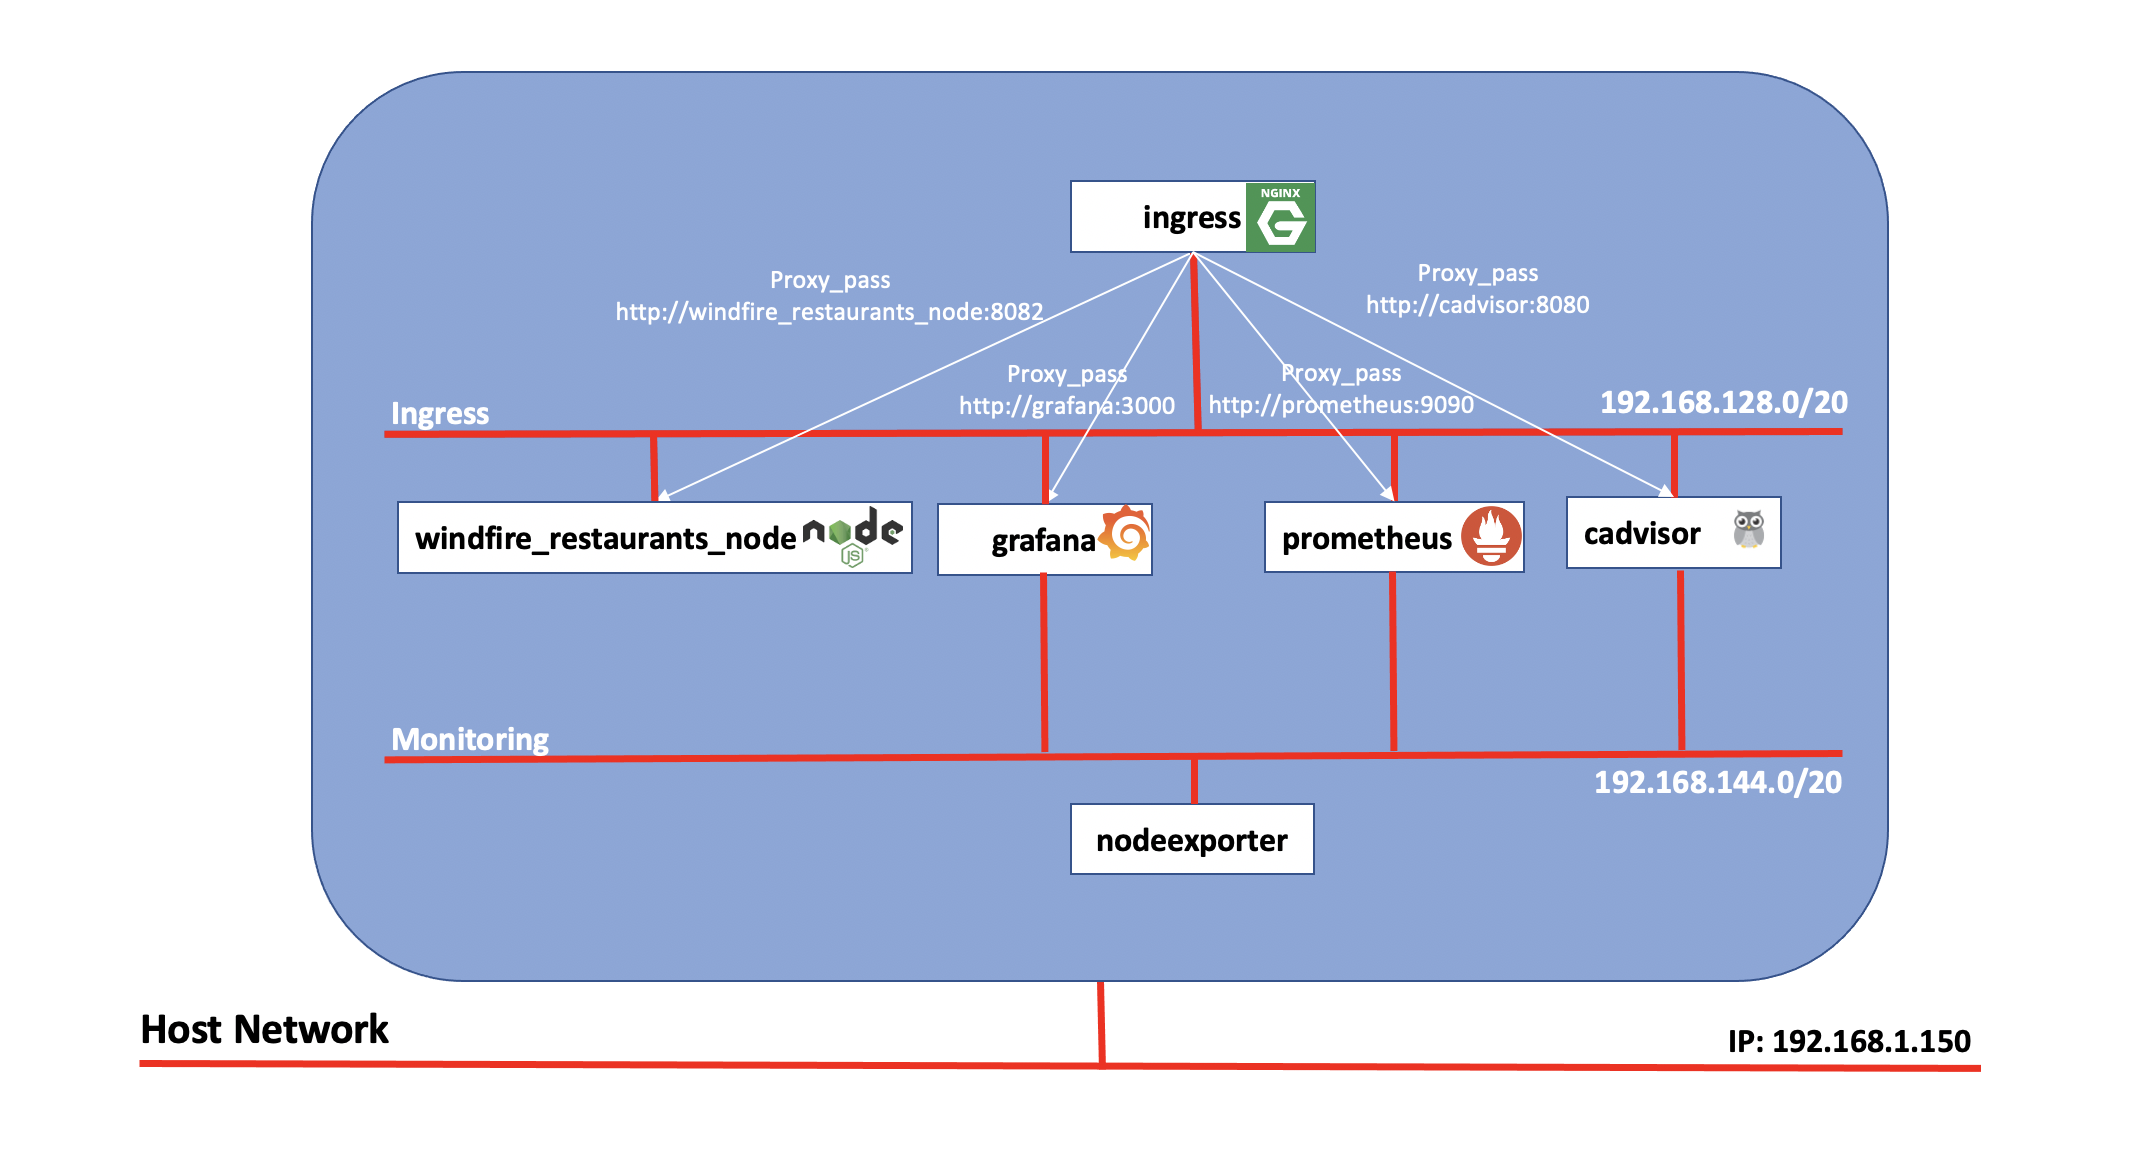
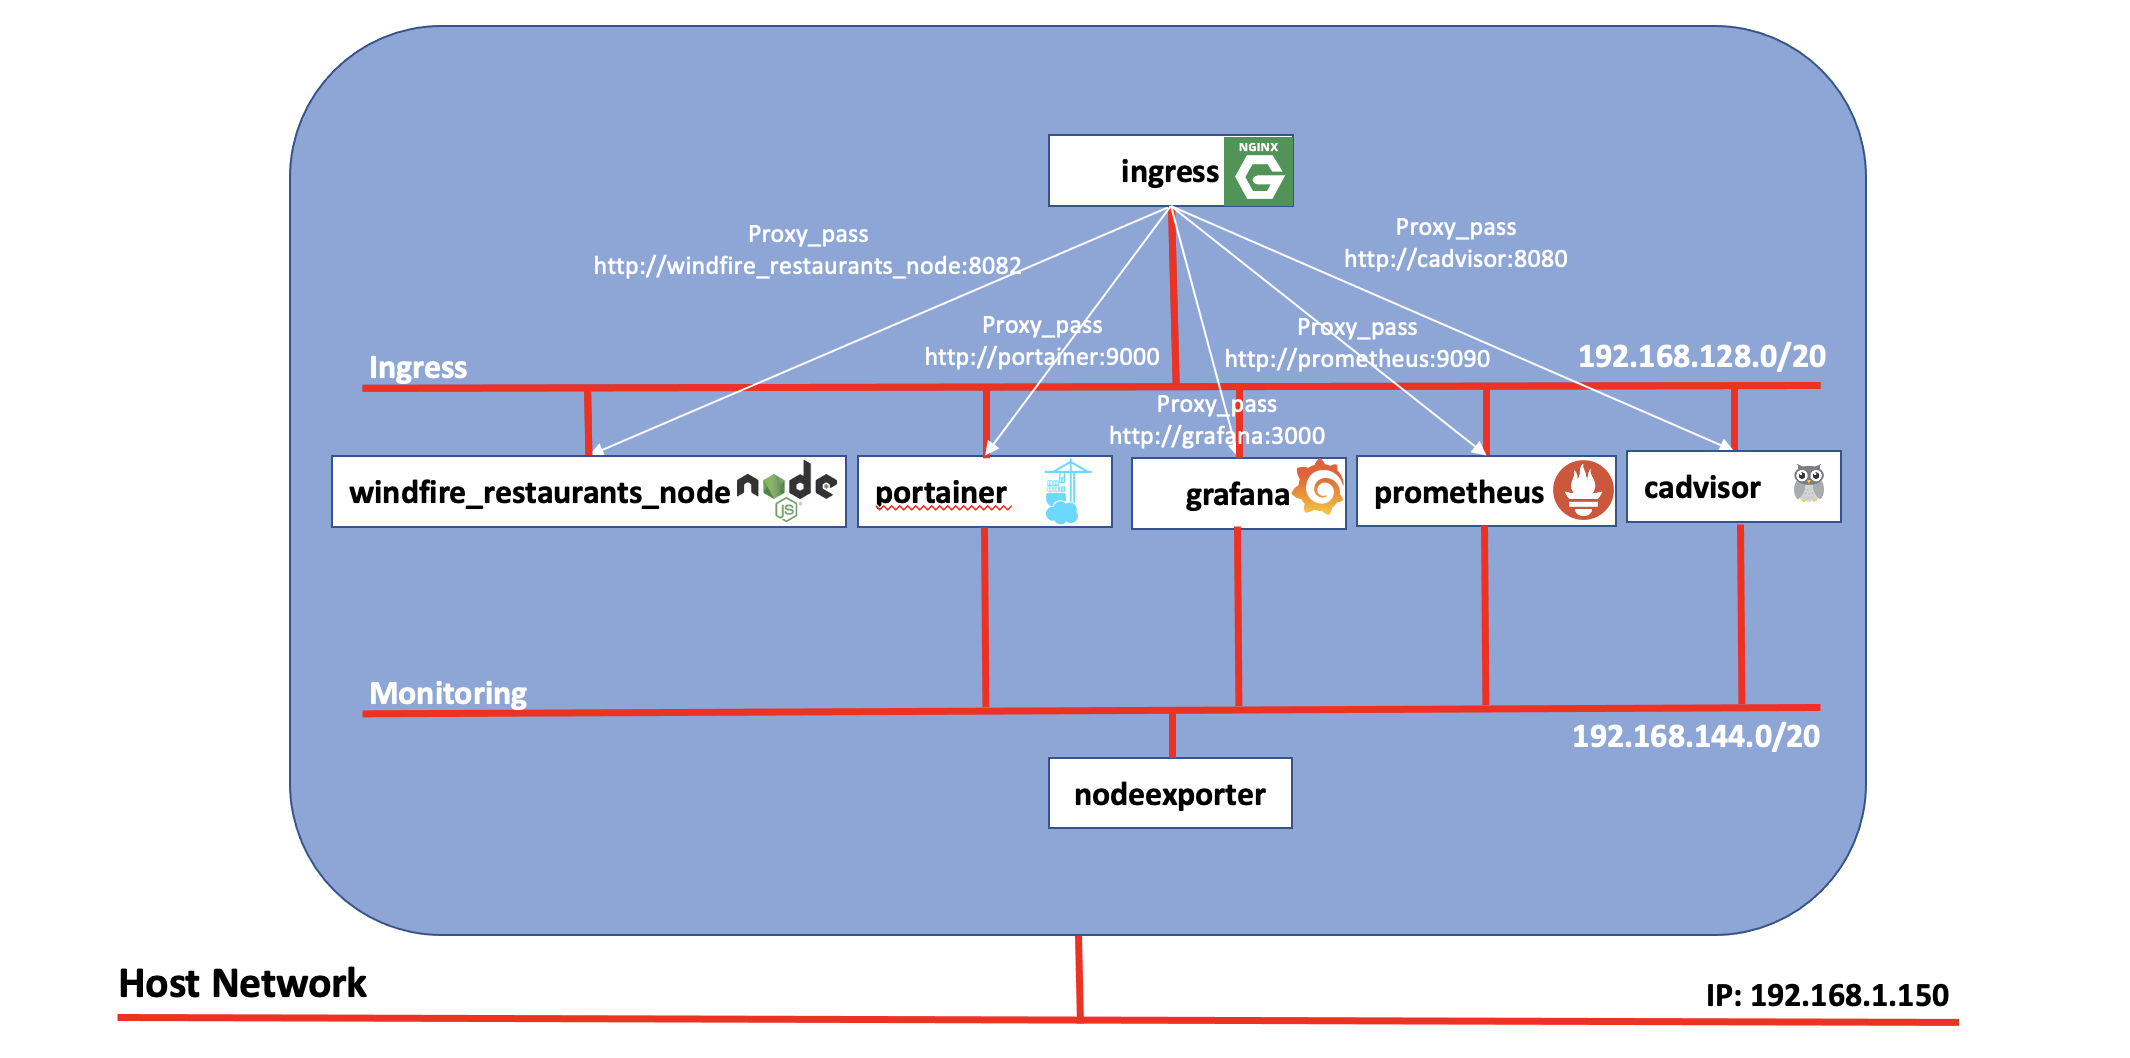
update README

Changed region(s): [[0.062, 0.0, 0.9296, 0.9669]]

diff --git a/README.md b/README.md
@@ -1,25 +1,28 @@
 # Windfire Monitoring
 - [Introduction](#introduction)
 - [Before you start](#before-you-start)
+- [Setup and run the stack](#setup-and-run-the-stack)
 - [Nginx](#nginx)
 - [Windfire Restaurants](#windfire-restaurants)
 - [Grafana](#grafana)
 - [Prometheus](#prometheus)
 - [Cadvisor](#cadvisor)
 - [Node Exporter](#node-exporter)
+- [Portainer](#portainer)
 
 ## Introduction
-This repository holds code and examples to configure and run monitoring tools for containerized applications.
+This repository holds scripts to configure and run an opinionated monitoring stack for containerized applications.
 
 All the tools are configured to run behind a Reverse Proxy, implemented with Nginx (https://www.nginx.com/), which shields and concentrates the access to several applications, as seen in the architecture diagram below.
 
 ![](images/architecture.png)
 
 Nginx runs as a container and is configured as a Reverse Proxy, with several *proxy_pass* directives that redirect to the following components running behind the proxy (see [Nginx](#nginx) paragraph for more details):
-- [Windfire Restaurants](#windfire-restaurants) - 
-- [Grafana](#grafana) - 
-- [Prometheus](#prometheus) - 
-- [Cadvisor](#cadvisor) - 
+- [Windfire Restaurants](#windfire-restaurants)
+- [Grafana](#grafana)
+- [Prometheus](#prometheus)
+- [Cadvisor](#cadvisor)
+- [Portainer](#portainer)
 
 Node Exporter does not have a relevant UI and for this reason runs in the backend and is not exposed through Nginx (see [Node Exporter](#node-exporter) paragraph for more details).
 
@@ -27,13 +30,28 @@ Node Exporter does not have a relevant UI and for this reason runs in the backen
 Before starting to experiment with the samples provided in this repository, you just need to have Docker and Docker Compose properly installed on your environment.
 
 Refer to the following:
- - https://docs.docker.com/engine/install/ for Docker engine installation
- - https://docs.docker.com/compose/install/ for Docker Compose installation
+- https://docs.docker.com/engine/install/ for Docker engine installation
+- https://docs.docker.com/compose/install/ for Docker Compose installation
+
+To setup and run the whole stack I provided the Docker Compose file **[docker-compose.yaml](docker-compose.yaml)** that defines all the configurations needed, since some of the containers in the stack need to read configuration files and Volumes to persist data, before running the stack you will need to adjust the directories according to your specific environment, i.e.:
+
+- Prometheus
+    - the volume mapping *$HOME/dev/windfire-monitoring/prometheus/prometheus-proxied.yml:/etc/prometheus/prometheus.yml* tells the container to read Prometheus configuration file from a specific directory on the filesystem: change *$HOME/dev/windfire-monitoring/prometheus* according to your environment.
+- Grafana 
+    - the volume mapping *$HOME/dev/windfire-monitoring/grafana/conf:/usr/share/grafana/conf* tells the container to load configurations from a specific directory on the filesystem: change *$HOME/dev/windfire-monitoring/grafana/conf* according to your environment.
+    - the volume mapping *$HOME/temp/monitoring/grafana:/var/lib/grafana* tells the container where to persist data generated during its execution: change *$HOME/temp/monitoring/grafana* according to your environment
+- Portainer
+    - change directory *$HOME/temp/monitoring/portainer* according to where you want Portainer container to store data generated during its execution.
+- Nginx
+    - the volume mapping *$HOME/dev/windfire-monitoring/nginx/default.conf:/etc/nginx/conf.d/default.conf* tells the container to read Nginx configuration file from a specific directory on the filesystem: change *$HOME/dev/windfire-monitoring/nginx* according to your environment.
+
+## Setup and run the stack
+To start the whole stack just run **[run-stack.sh](run-stack.sh)** script which uses **[docker-compose.yaml](docker-compose.yaml)**.
 
 ## Nginx
 [Nginx](https://www.nginx.com/) is a free, open source HTTP web server, mail proxy server, reverse proxy and load balancer for HTTP, TCP and UDP traffic.
 
-Nginx behavior is defined in a specific configuration file named **[default.conf](nginx/default.conf)**, that is copied to the Docker image when it is built.
+Nginx behavior is defined in a specific configuration file named **[default.conf](nginx/default.conf)**, that is loaded at container startup via a volume mapping.
 
 ## Windfire Restaurants 
 [TODO]
@@ -42,7 +60,7 @@ Nginx behavior is defined in a specific configuration file named **[default.conf
 [Grafana](https://grafana.com/) is an open-source platform for data visualization, monitoring and analysis that has become quite popular as a tool for Observability, allowing to query, visualize, alert on and understand environment metrics no matter where they are stored.
 
 ## Prometheus
-[Prometheus](https://prometheus.io/) is an open-source system monitoring and alerting toolkit. It is configured via **[prometheus.yml](prometheus/prometheus.yml)** specific configuration file that is copied to the Docker image when it is built.
+[Prometheus](https://prometheus.io/) is an open-source system monitoring and alerting toolkit. It is configured via **[prometheus.yml](prometheus/prometheus.yml)** specific configuration file that is that is loaded at container startup via a volume mapping.
 
 ## cAdvisor
 [cAdvisor](https://github.com/google/cadvisor) provides container users an understanding of the resource usage and performance characteristics of their running containers. It is a running daemon that collects, aggregates, processes, and exports information about running containers. Specifically, for each container it keeps resource isolation parameters, historical resource usage, histograms of complete historical resource usage and network statistics.
